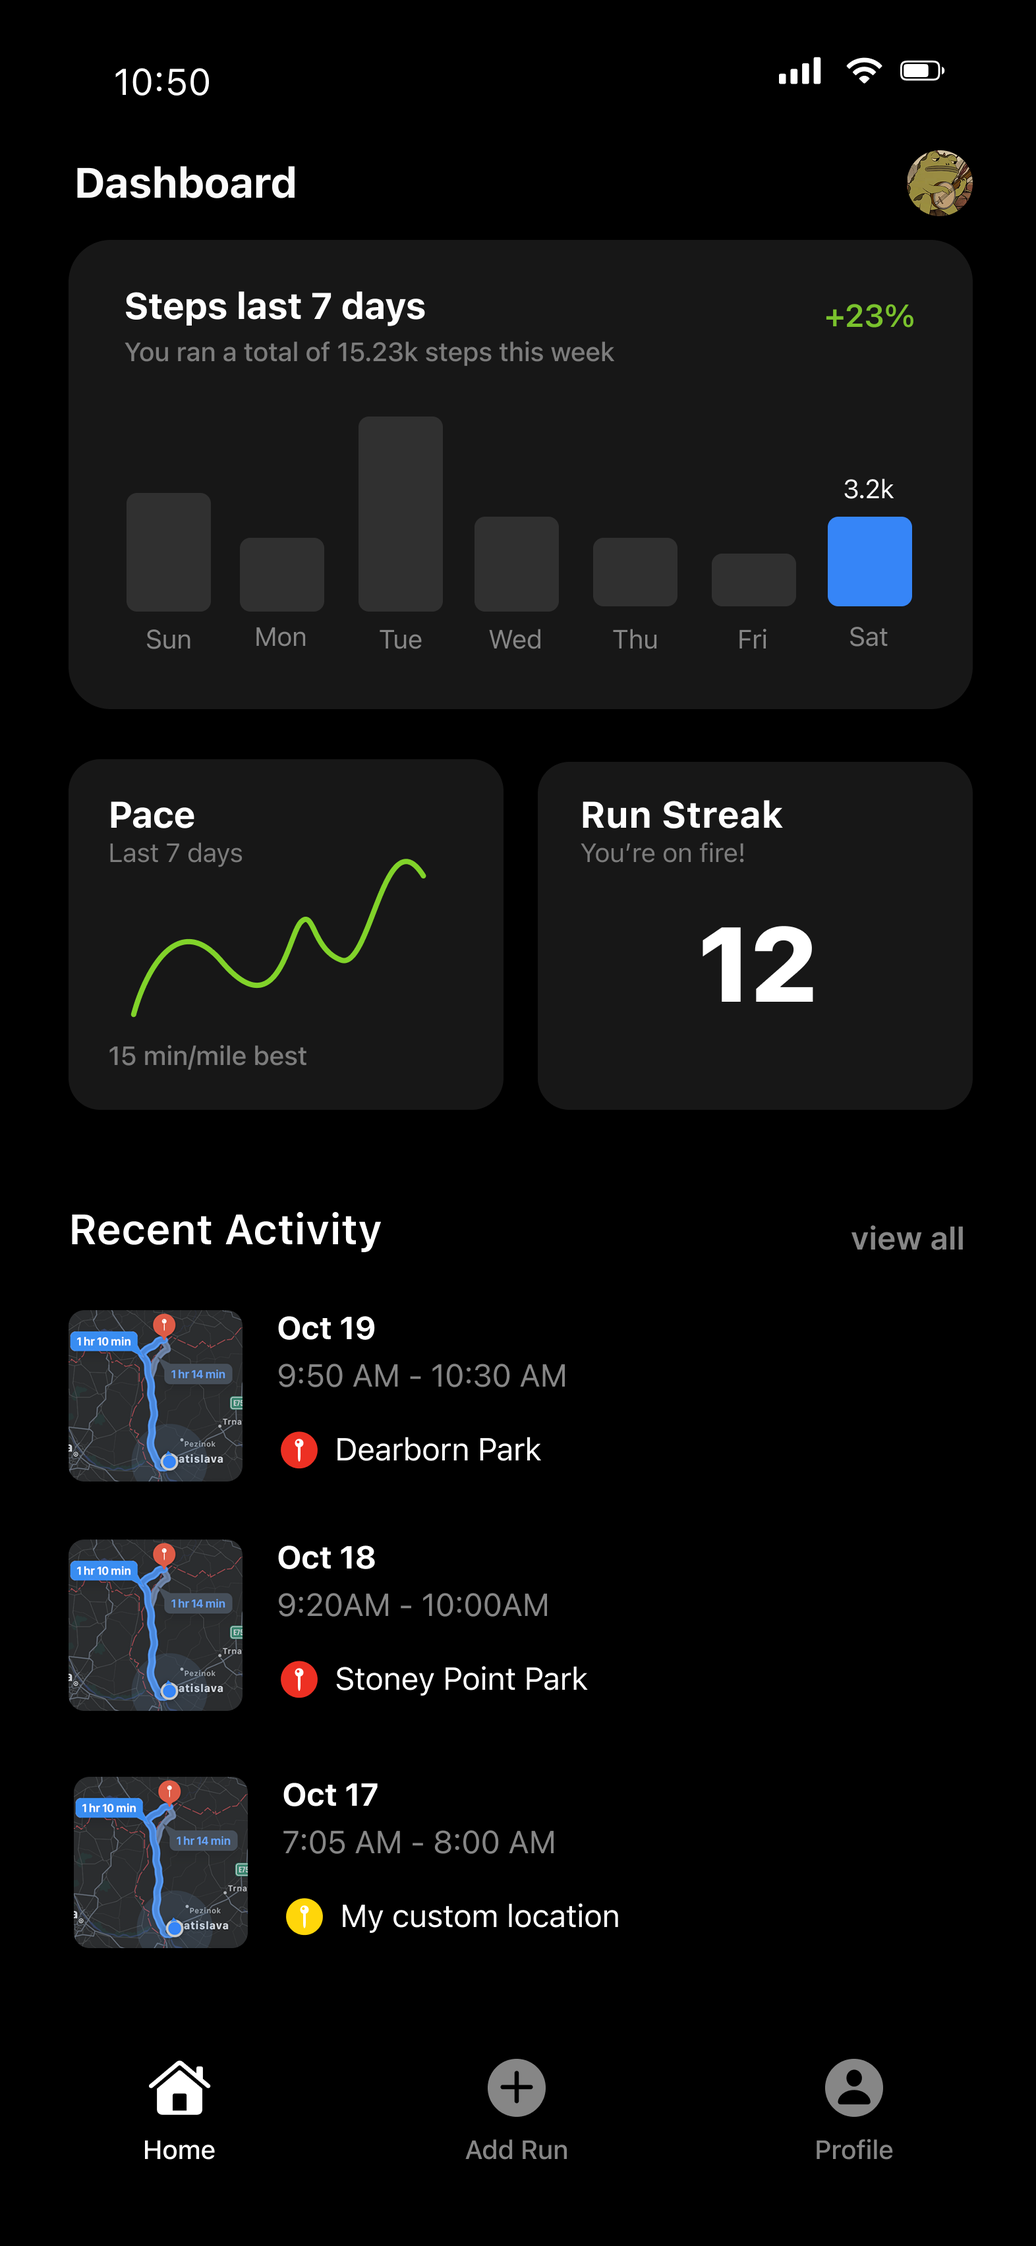
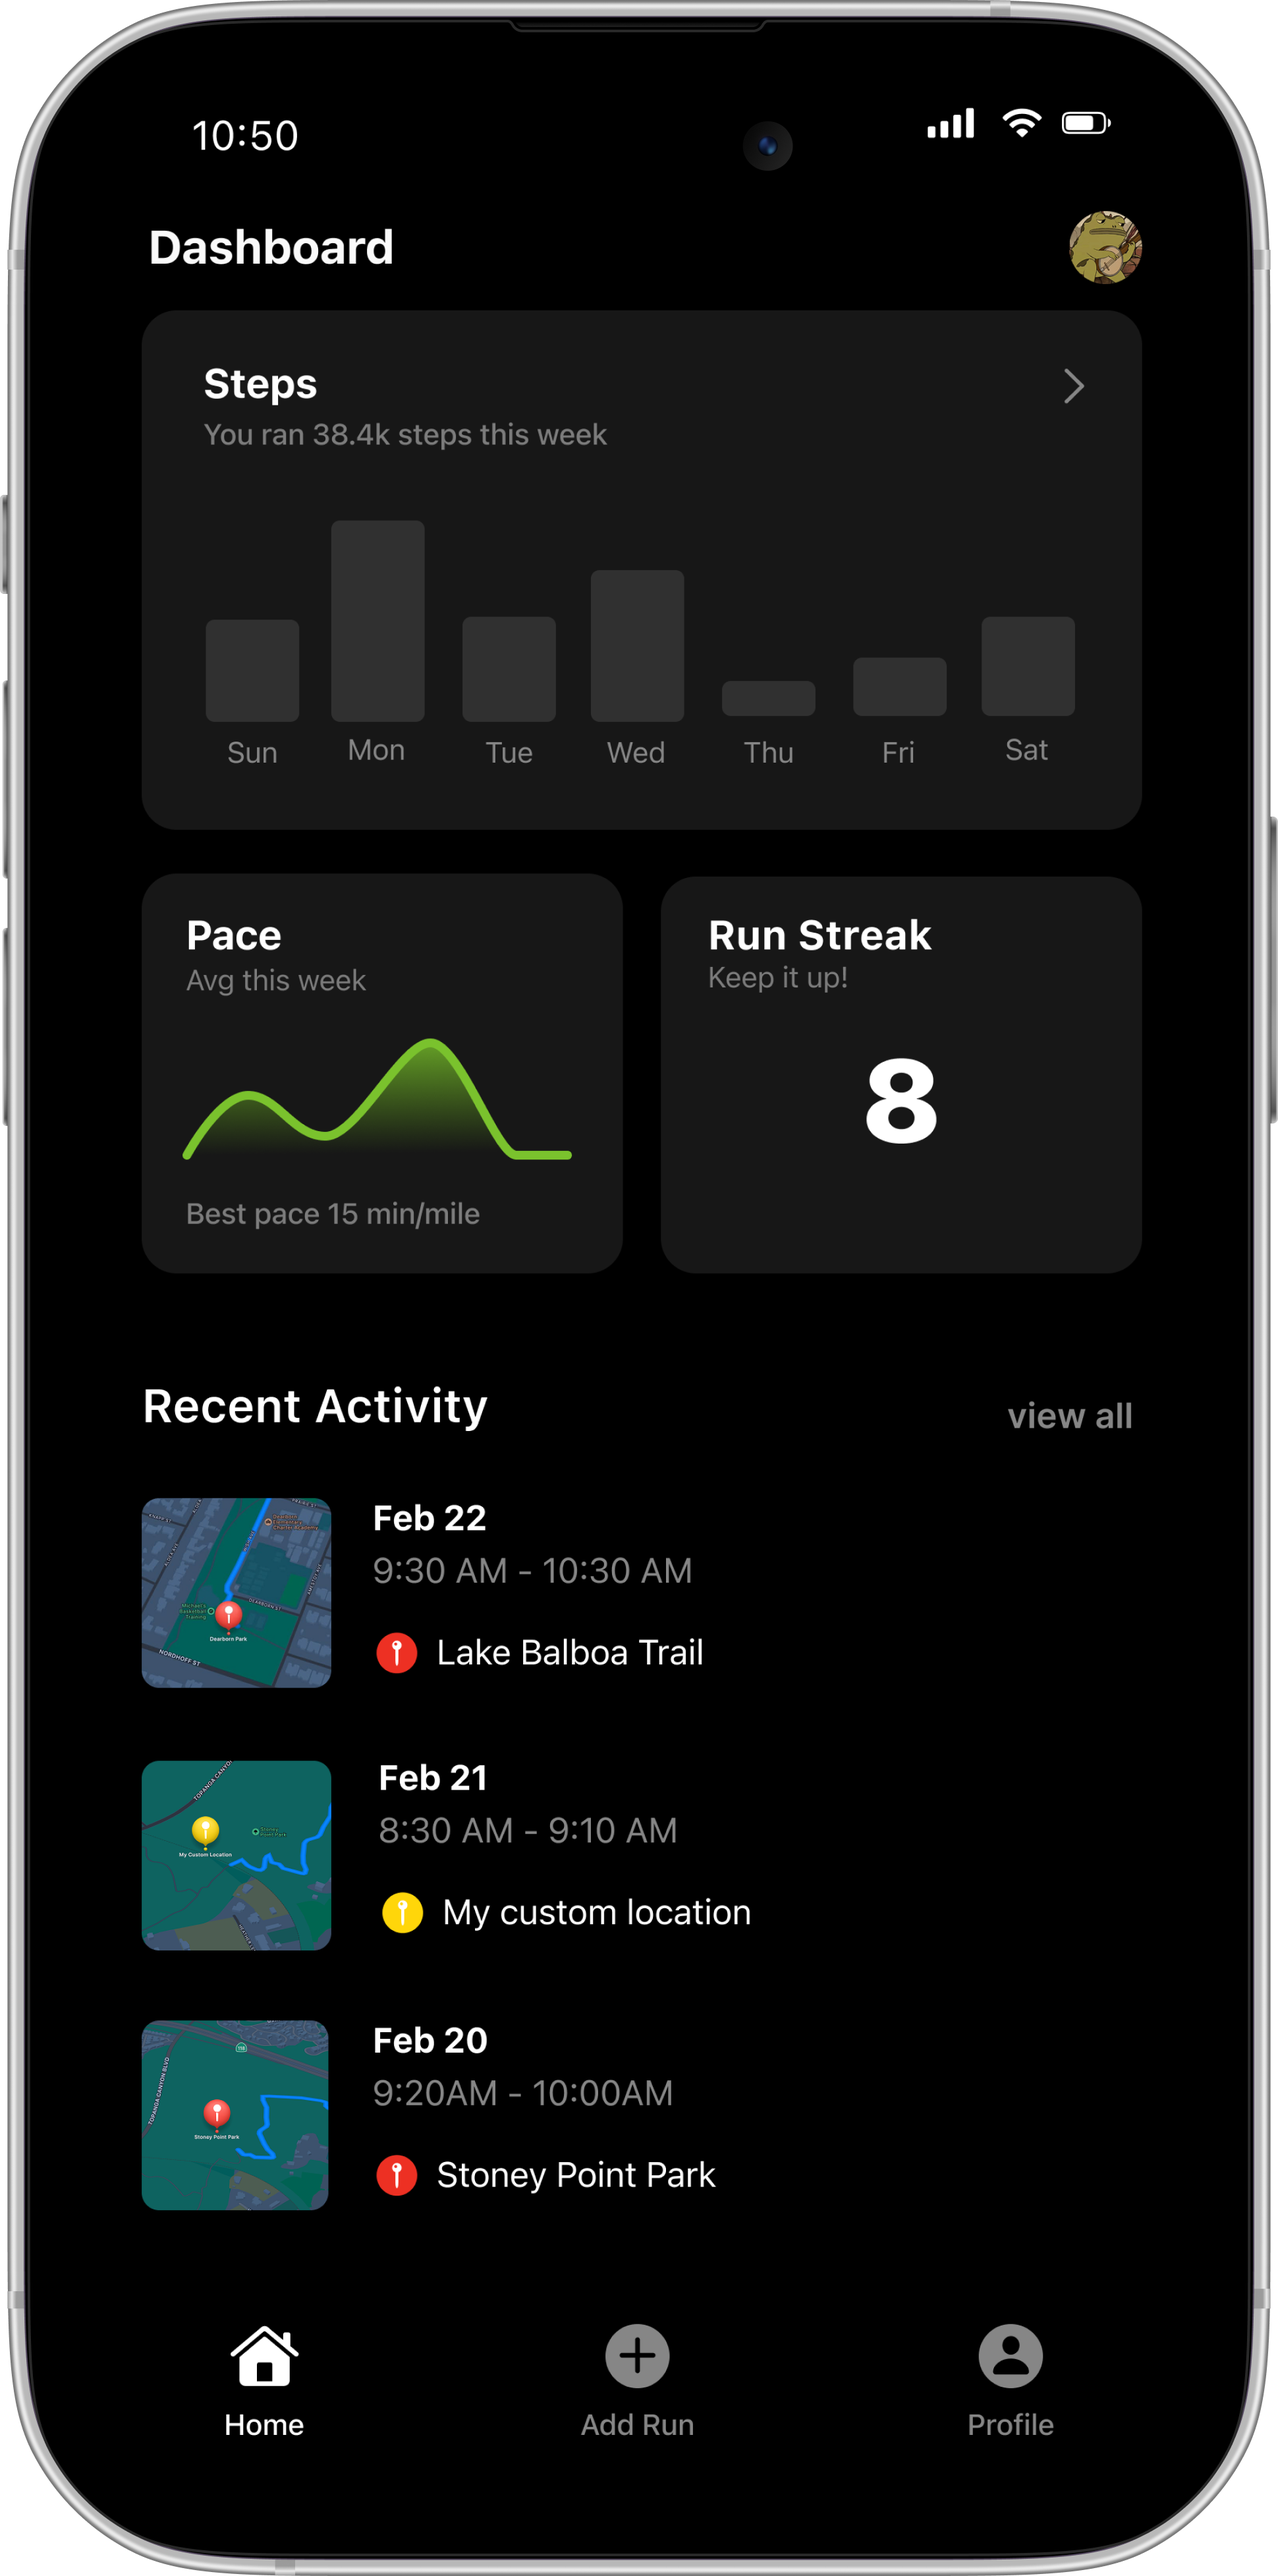
updated mockup images. Added new screen

diff --git a/src/app/page.tsx b/src/app/page.tsx
@@ -5,6 +5,7 @@ import {
   CarouselItem,
   CarouselDots
 } from "@/components/ui/carousel"
+import { Button } from "@/components/ui/button";
 
 
 export default function Home() {
@@ -34,17 +35,29 @@ export default function Home() {
        
 
 
-          <div className="w-[300px] h-[591px] lg:w-[383px] lg:h-[671px] mx-auto py-8">
+          <div className="max-w-[300px] mx-auto py-8">
             <Image
               className="dark:invert"
-              src="/Dashboard_Mockup.png"
+              src="/Dashboard.png"
               alt="dashboard mockup"
               width={585}
               height={1077}
               priority
             />
           </div>
+
+          <div className="mx-auto mt-20 hover:pointer">
+            <a href="https://apps.apple.com/us/app/solo-running/id6742040879">
+              <Image
+              src="/DownloadButton.svg"
+              alt="dashboard mockup"
+              width={130}
+              height={40}
+            />
+          </a>
+          </div>
         </section>
+
 
         {/* Responsive preview to show app screen mockups */}
         <CarouselView />
@@ -120,7 +133,7 @@ function StaggeredView() {
         <div className="w-[243px] h-[531px] lg:w-[283px] lg:h-[571px]">
           <Image
             className="dark:invert rounded-3xl border border-2 border-dark-grey"
-            src="/Add_Run.png"
+            src="/AddRun.png"
             alt="add run mockup"
             width={585}
             height={1077}
@@ -138,7 +151,7 @@ function StaggeredView() {
         <div className="w-[243px] h-[531px] lg:w-[283px] lg:h-[571px]">
           <Image
             className="dark:invert rounded-3xl border border-2 border-dark-grey"
-            src="/Create_Custom_Pin.png"
+            src="/DragPin.png"
             alt="create custom pin mockup"
             width={585}
             height={1077}
@@ -146,8 +159,8 @@ function StaggeredView() {
         </div>
 
         <div className="w-[400px] flex flex-col gap-2">
-          <h2 className="text-white text-2xl font-semibold">Create Custom Pins</h2>
-          <p className="text-light-grey max-w-xs">Feeling adventurous? Use a drag and drop pin to add your own locations on the map.</p>
+          <h2 className="text-white text-2xl font-semibold">Set routes or roam freely</h2>
+          <p className="text-light-grey max-w-xs">Enter a search term or landmark to generate a list of suggested landmarks. If you're feeling adventurous, just tap quick start.</p>
         </div>
 
       </div>
@@ -156,7 +169,7 @@ function StaggeredView() {
         <div className="w-[243px] h-[531px] lg:w-[283px] lg:h-[571px]">
           <Image
             className="dark:invert rounded-3xl border border-2 border-dark-grey"
-            src="/Run_History.png"
+            src="/RunHistory.png"
             alt="run history mockup"
             width={585}
             height={1077}
@@ -170,7 +183,32 @@ function StaggeredView() {
 
       </div>
 
+
+      <div className="flex flex-col lg:flex-row justify-between items-center">
+
+
+        <div className="w-[400px] flex flex-col gap-2">
+          <h2 className="text-white text-2xl font-semibold">Interactive Charts</h2>
+          <p className="text-light-grey max-w-xs">SwiftUI Charts is integrated to provide granular insight into your run data over time.</p>
+        </div>
+
+        <div className="w-[243px] h-[531px] lg:w-[283px] lg:h-[571px]">
+          <Image
+            className="dark:invert rounded-3xl border border-2 border-dark-grey"
+            src="/StepsCharts.png"
+            alt="run history mockup"
+            width={585}
+            height={1077}
+          />
+        </div>
+      </div>
+
       <div className="flex flex-col lg:flex-row-reverse justify-between items-center">
+        <div className="w-[400px] flex flex-col gap-2">
+          <h2 className="text-white text-2xl font-semibold">Manage your profile</h2>
+          <p className="text-light-grey max-w-xs">Switch things up by editing pins or updating your map themes. And don&apos;t worry, your profile data is never shared with anyone.</p>
+        </div>
+
         <div className="w-[243px] h-[531px] lg:w-[283px] lg:h-[571px]">
           <Image
             className="dark:invert rounded-3xl border border-2 border-dark-grey"
@@ -179,11 +217,6 @@ function StaggeredView() {
             width={585}
             height={1077}
           />
-        </div>
-
-        <div className="w-[400px] flex flex-col gap-2">
-          <h2 className="text-white text-2xl font-semibold">Manage your profile</h2>
-          <p className="text-light-grey max-w-xs">Switch things up by editing pins or updating your map themes. And don&apos;t worry, your profile data is never shared with anyone.</p>
         </div>
 
       </div>
@@ -204,7 +237,7 @@ function CarouselView() {
               <div className="w-[243px] h-[531px] mx-auto">
                 <Image
                   className="dark:invert rounded-3xl border border-2 border-dark-grey"
-                  src="/Add_Run.png"
+                  src="/AddRun.png"
                   alt="add run mockup"
                   width={585}
                   height={1077}
@@ -226,7 +259,7 @@ function CarouselView() {
               <div className="w-[243px] h-[531px] mx-auto">
                 <Image
                   className="dark:invert rounded-3xl border border-2 border-dark-grey"
-                  src="/Create_Custom_Pin.png"
+                  src="/DragPin.png"
                   alt="add run mockup"
                   width={585}
                   height={1077}
@@ -248,7 +281,7 @@ function CarouselView() {
               <div className="w-[243px] h-[531px] mx-auto">
                 <Image
                   className="dark:invert rounded-3xl border border-2 border-dark-grey"
-                  src="/Run_History.png"
+                  src="/RunHistory.png"
                   alt="add run mockup"
                   width={585}
                   height={1077}
@@ -263,8 +296,28 @@ function CarouselView() {
           </CarouselItem>
 
 
+        {/* StepsCharts Preview */}
+        <CarouselItem key={4}>
+            <div className="flex flex-col justify-center">
+              <div className="w-[243px] h-[531px] mx-auto">
+                <Image
+                  className="dark:invert rounded-3xl border border-2 border-dark-grey"
+                  src="/StepsCharts.png"
+                  alt="steps charts mockup"
+                  width={585}
+                  height={1077}
+                />
+              </div>
+            </div>
+
+            <div className="max-w-sm flex flex-col gap-2 text-center mx-auto">
+              <h2 className="text-white text-2xl font-semibold">Interactive Charts</h2>
+              <p className="text-light-grey max-w-sm">SwiftUI Charts is integrated to provide granular insight into your run data over time.</p>
+            </div>
+          </CarouselItem>
+
           {/* Profile Preview */}
-          <CarouselItem key={3}>
+          <CarouselItem key={5}>
             <div className="flex flex-col justify-center">
               <div className="w-[243px] h-[531px] mx-auto">
                 <Image
@@ -282,6 +335,7 @@ function CarouselView() {
               <p className="text-light-grey max-w-sm">Switch things up by editing pins or updating your map themes. And don&apos;t worry, your profile data is never shared with anyone.</p>
             </div>
           </CarouselItem>
+
         </CarouselContent>
 
 
